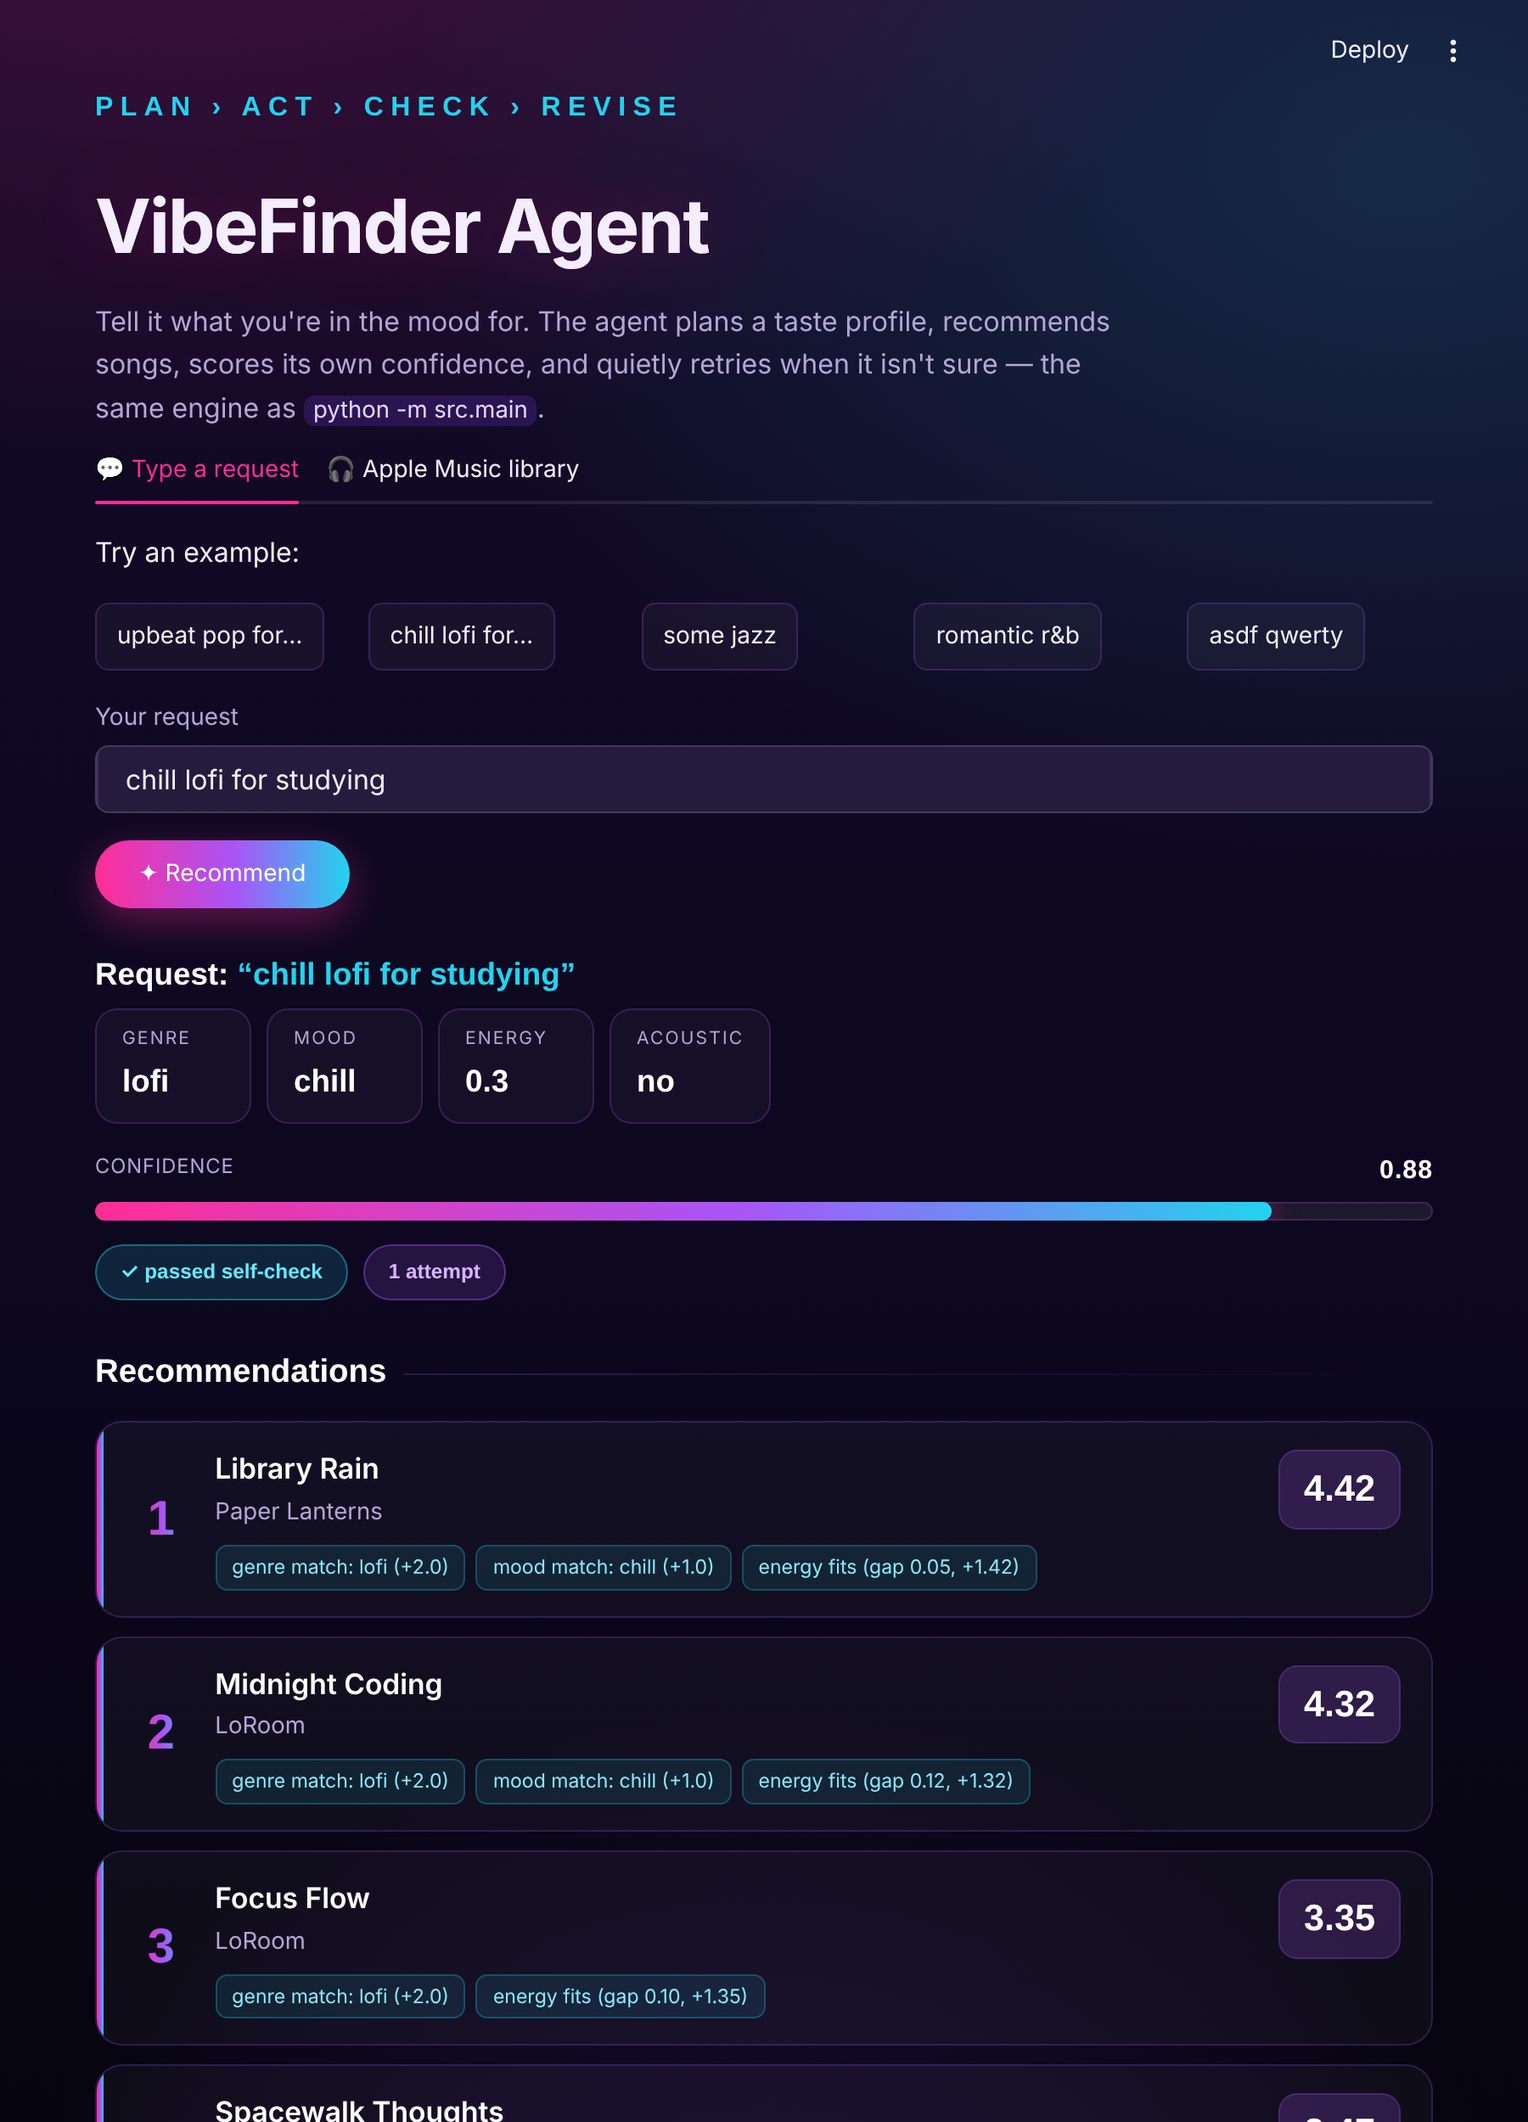
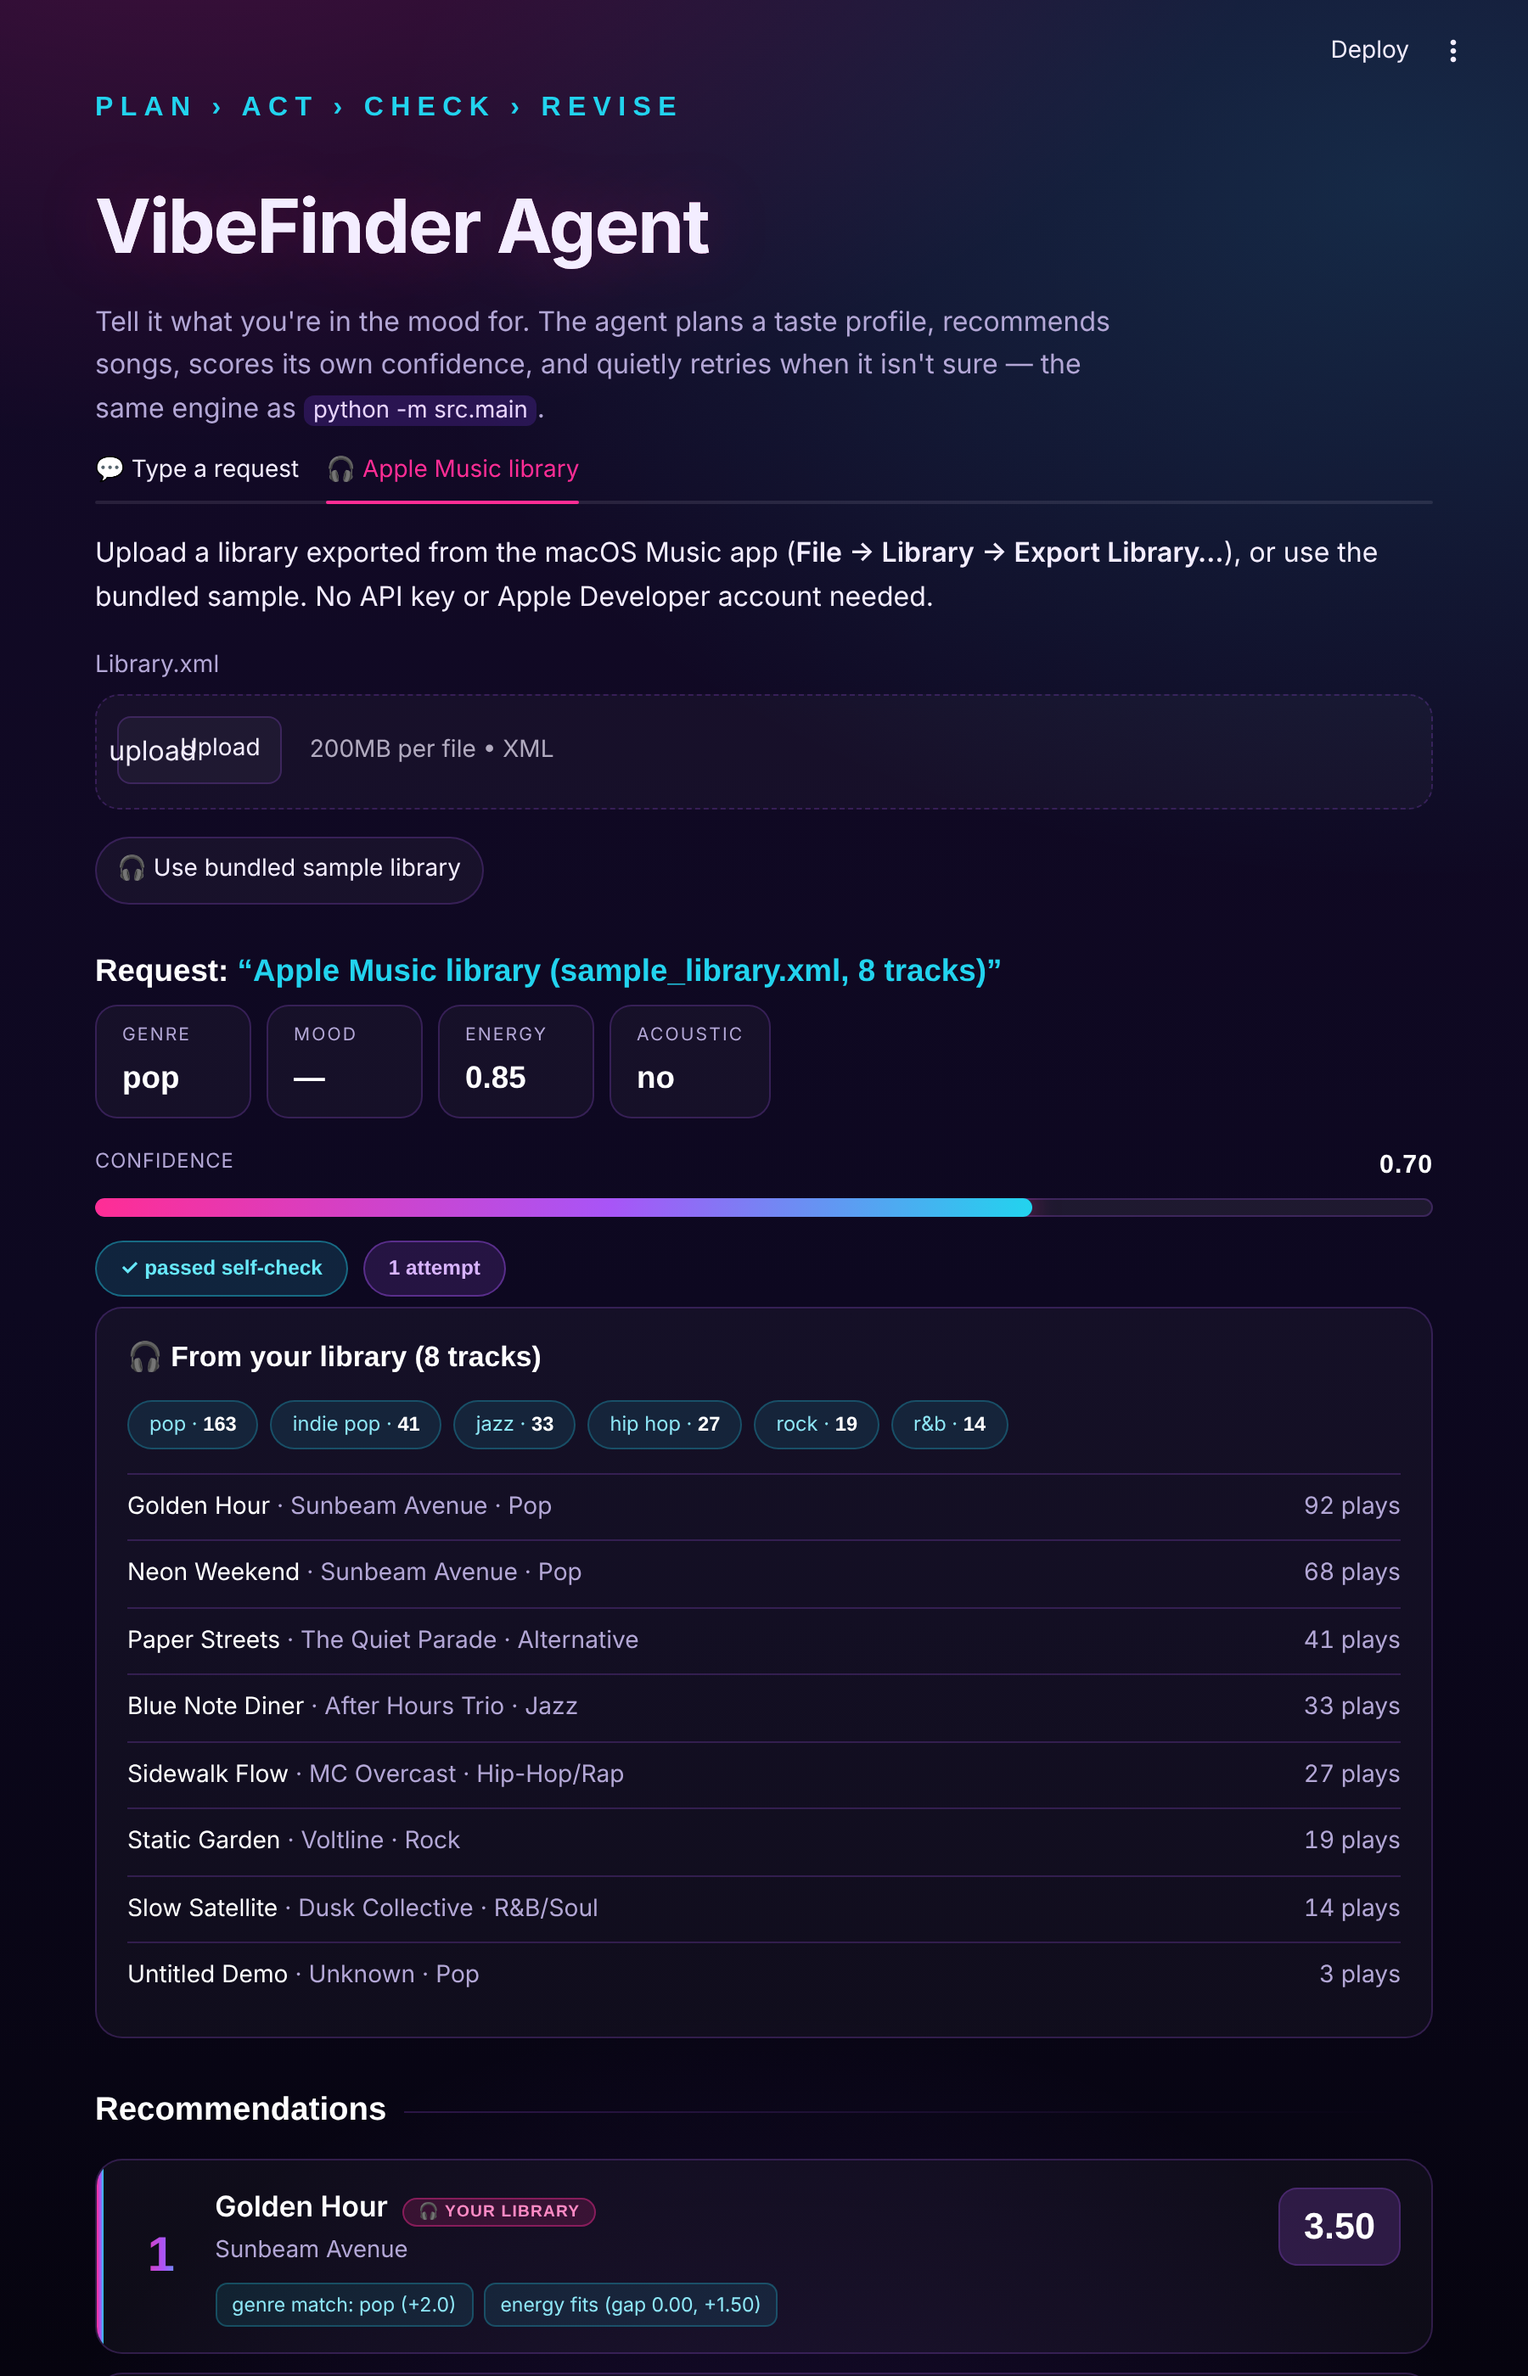
Apple Music: show parsed library and rank the user's own songs
Two improvements to the Apple Music path so results reflect the uploaded
library instead of only the fixed catalog:
- 'From your library' panel: shows the parsed tracks (with play counts)
  and a play-count genre breakdown, so you can see what was read.
- The user's own tracks are folded into the candidate pool and scored, so
  they appear in the recommendations tagged 'your library' vs 'suggested'.
  Uploaded tracks get an inferred energy (catalog average for their genre)
  since the export lacks audio features; documented in the model card.

Added library_candidate_songs/genre_breakdown helpers, threaded an
extra-candidates pool through the agent, and added 2 tests (26 total).

diff --git a/app.py b/app.py
@@ -150,6 +150,22 @@ button[data-baseweb="tab"][aria-selected="true"]{ color:#fff; }
 .vf-reasons{ display:flex; flex-wrap:wrap; gap:6px; }
 .vf-rchip{ font-size:.72rem; padding:3px 9px; border-radius:7px; background:rgba(34,211,238,.1); color:#8ee7f7; border:1px solid rgba(34,211,238,.25); white-space:nowrap; }
 
+/* source pills + library panel */
+.vf-src{ font-family:'Space Grotesk',sans-serif; font-size:.6rem; font-weight:600; text-transform:uppercase; letter-spacing:.06em;
+  padding:2px 8px; border-radius:999px; margin-left:9px; white-space:nowrap; }
+.vf-src.lib{ background:rgba(255,45,149,.16); color:#ff8ac4; border:1px solid rgba(255,45,149,.4); }
+.vf-src.sug{ background:rgba(168,85,247,.14); color:#c4b5fd; border:1px solid rgba(168,85,247,.35); }
+.vf-lib{ background:var(--card); border:1px solid var(--line); border-radius:16px; padding:16px 18px; margin:4px 0 2px; }
+.vf-libhead{ font-family:'Space Grotesk',sans-serif; font-weight:700; color:#fff; font-size:1.05rem; margin-bottom:11px; display:flex; align-items:center; gap:8px; }
+.vf-gbreak{ display:flex; flex-wrap:wrap; gap:7px; margin-bottom:14px; }
+.vf-gchip{ font-size:.74rem; padding:4px 12px; border-radius:999px; background:rgba(34,211,238,.1); border:1px solid rgba(34,211,238,.25); color:#8ee7f7; }
+.vf-gchip b{ color:#fff; font-family:'Space Grotesk',sans-serif; }
+.vf-track{ display:flex; justify-content:space-between; gap:12px; padding:8px 0; border-top:1px solid var(--line); font-size:.88rem; }
+.vf-track .tname{ color:#fff; min-width:0; overflow:hidden; text-overflow:ellipsis; }
+.vf-track .tname span{ color:var(--muted); }
+.vf-track .tplays{ color:var(--muted); white-space:nowrap; font-variant-numeric:tabular-nums; }
+.vf-more{ color:var(--muted); font-size:.8rem; margin-top:9px; }
+
 /* expander (trace) */
 [data-testid="stExpander"]{ border:1px solid var(--line)!important; border-radius:12px!important; background:var(--card)!important; }
 [data-testid="stExpander"] summary{ color:var(--muted)!important; font-family:'Space Grotesk',sans-serif; font-weight:600; }
@@ -196,17 +212,48 @@ def render_result(result) -> None:
         unsafe_allow_html=True,
     )
 
+    is_library = result.library_tracks is not None
+
+    # "From your library" panel (library mode only).
+    if is_library:
+        gb = "".join(
+            f'<span class="vf-gchip">{html.escape(g)} · <b>{plays}</b></span>'
+            for g, plays in (result.genre_breakdown or [])
+        )
+        tracks = sorted(result.library_tracks, key=lambda t: t.get("play_count", 0), reverse=True)
+        shown = tracks[:15]
+        rows = "".join(
+            f'<div class="vf-track"><div class="tname">{html.escape(t["title"])} '
+            f'<span>· {html.escape(t["artist"])} · {html.escape(t["genre"] or "—")}</span></div>'
+            f'<div class="tplays">{t.get("play_count", 0)} plays</div></div>'
+            for t in shown
+        )
+        more = (f'<div class="vf-more">+ {len(tracks) - len(shown)} more tracks</div>'
+                if len(tracks) > len(shown) else "")
+        st.markdown(
+            f'<div class="vf-lib"><div class="vf-libhead">🎧 From your library '
+            f'({len(result.library_tracks)} tracks)</div>'
+            f'<div class="vf-gbreak">{gb}</div>{rows}{more}</div>',
+            unsafe_allow_html=True,
+        )
+
     cards = ['<div class="vf-sechead">Recommendations</div>']
     for rank, (song, score, explanation) in enumerate(result.recommendations, start=1):
         reasons = "".join(
             f'<span class="vf-rchip">{html.escape(r.strip())}</span>'
             for r in explanation.split(";") if r.strip()
         )
+        if is_library:
+            pill = ('<span class="vf-src lib">🎧 your library</span>'
+                    if song.get("source") == "library"
+                    else '<span class="vf-src sug">suggested</span>')
+        else:
+            pill = ""
         cards.append(
             f'<div class="vf-song"><div class="vf-rank">{rank}</div>'
             f'<div class="vf-main">'
             f'<div class="vf-row">'
-            f'<div class="vf-names"><div class="vf-title2">{html.escape(song["title"])}</div>'
+            f'<div class="vf-names"><div class="vf-title2">{html.escape(song["title"])}{pill}</div>'
             f'<div class="vf-artist">{html.escape(song["artist"])}</div></div>'
             f'<div class="vf-score">{score:.2f}</div></div>'
             f'<div class="vf-reasons">{reasons}</div></div></div>'

diff --git a/src/agent.py b/src/agent.py
@@ -27,7 +27,11 @@ from src.recommender import load_songs, recommend_songs, UserProfile
 from src.planner import parse_request, Plan
 from src.evaluator import evaluate, EvalResult, CONFIDENCE_THRESHOLD
 from src.connectors.apple_music import parse_library
-from src.profile_builder import build_plan_from_library
+from src.profile_builder import (
+    build_plan_from_library,
+    library_candidate_songs,
+    genre_breakdown,
+)
 
 MAX_ATTEMPTS = 3
 DEFAULT_CSV = "data/songs.csv"
@@ -66,6 +70,8 @@ class AgentResult:
     attempts: int
     trace: List[str] = field(default_factory=list)
     advisory: Optional[str] = None
+    library_tracks: Optional[List[Dict]] = None    # parsed tracks (library mode only)
+    genre_breakdown: Optional[List] = None          # [(genre, plays)] (library mode only)
 
 
 class RecommenderAgent:
@@ -105,13 +111,20 @@ class RecommenderAgent:
         """
         tracks = parse_library(xml_path)
         plan: Plan = build_plan_from_library(tracks, self.songs, k)
+        # The user's own tracks become candidates too, so they can be ranked.
+        extra = library_candidate_songs(tracks, self.songs)
         label = f"Apple Music library ({os.path.basename(xml_path)}, {len(tracks)} tracks)"
-        return self._execute(plan, label=label)
+        result = self._execute(plan, label=label, extra_songs=extra)
+        result.library_tracks = tracks
+        result.genre_breakdown = genre_breakdown(tracks)
+        return result
 
-    def _execute(self, plan: Plan, label: str) -> AgentResult:
+    def _execute(self, plan: Plan, label: str, extra_songs=None) -> AgentResult:
         query = label
         k = plan.k
         profile = plan.profile
+        # Candidate pool: the catalog, plus any uploaded tracks (library mode).
+        candidates = self.songs + (extra_songs or [])
         self.log.info("PLAN   source=%r -> profile=%s", label, profile)
         for line in plan.trace:
             self.log.info("PLAN     %s", line)
@@ -133,7 +146,7 @@ class RecommenderAgent:
         while attempts < MAX_ATTEMPTS:
             attempts += 1
             prefs = _profile_to_prefs(profile)
-            recs = recommend_songs(prefs, self.songs, k)
+            recs = recommend_songs(prefs, candidates, k)
             result = evaluate(profile, recs, k, self.catalog_genres)
             self.log.info(
                 "ACT    attempt=%d top=%r score=%.2f conf=%.2f passed=%s issues=%s",

diff --git a/src/profile_builder.py b/src/profile_builder.py
@@ -46,6 +46,55 @@ def map_genre(apple_genre: str):
     return None
 
 
+def _genre_energy_means(songs: List[Dict]) -> Dict[str, float]:
+    """Average energy of catalog songs per genre (used to fill in uploads)."""
+    buckets: Dict[str, List[float]] = {}
+    for s in songs:
+        buckets.setdefault(s["genre"], []).append(s["energy"])
+    return {g: round(statistics.mean(v), 2) for g, v in buckets.items()}
+
+
+def genre_breakdown(tracks: List[Dict]) -> List:
+    """Return [(catalog_genre, total_plays)] for a library, most played first."""
+    tally: Dict[str, int] = {}
+    for t in tracks:
+        genre = map_genre(t.get("genre", ""))
+        if genre:
+            tally[genre] = tally.get(genre, 0) + max(0, int(t.get("play_count", 0)))
+    return sorted(tally.items(), key=lambda kv: kv[1], reverse=True)
+
+
+def library_candidate_songs(tracks: List[Dict], songs: List[Dict]) -> List[Dict]:
+    """Turn uploaded tracks into scoreable songs so they can be recommended.
+
+    The export has no energy/mood/acousticness, so we fill energy with the
+    catalog average for the track's genre (the best estimate we have),
+    leave mood blank, and set acousticness to 0. Each song is tagged
+    ``source="library"`` so the UI can mark it as one of the user's own.
+    """
+    means = _genre_energy_means(songs)
+    overall = round(statistics.mean([s["energy"] for s in songs]), 2) if songs else 0.6
+    candidates: List[Dict] = []
+    for i, t in enumerate(tracks):
+        genre = map_genre(t.get("genre", ""))
+        if not genre:
+            continue  # can't place an unknown genre in the scoring space
+        candidates.append({
+            "id": -(i + 1),
+            "title": t.get("title", "Unknown"),
+            "artist": t.get("artist", "Unknown"),
+            "genre": genre,
+            "mood": "",
+            "energy": means.get(genre, overall),
+            "valence": 0.0,
+            "danceability": 0.0,
+            "acousticness": 0.0,
+            "play_count": int(t.get("play_count", 0)),
+            "source": "library",
+        })
+    return candidates
+
+
 def build_plan_from_library(tracks: List[Dict], songs: List[Dict], k: int = 5) -> Plan:
     """Build a Plan (profile + trace) from parsed Apple Music tracks.
 

diff --git a/tests/test_apple_music.py b/tests/test_apple_music.py
@@ -1,6 +1,12 @@
 from src.connectors.apple_music import parse_library
-from src.profile_builder import map_genre, build_plan_from_library
+from src.profile_builder import (
+    map_genre,
+    build_plan_from_library,
+    library_candidate_songs,
+    genre_breakdown,
+)
 from src.recommender import load_songs
+from src.agent import RecommenderAgent
 
 SAMPLE = "data/sample_library.xml"
 
@@ -37,3 +43,26 @@ def test_empty_library_falls_back_gracefully():
     plan = build_plan_from_library([], songs)
     assert plan.recognized is False
     assert plan.profile.favorite_genre == ""
+
+
+def test_library_candidates_fill_missing_features():
+    songs = load_songs("data/songs.csv")
+    tracks = parse_library(SAMPLE)
+    candidates = library_candidate_songs(tracks, songs)
+    assert candidates, "expected scoreable candidates from the sample library"
+    for c in candidates:
+        assert c["source"] == "library"
+        assert c["mood"] == ""              # export has no mood
+        assert 0.0 <= c["energy"] <= 1.0    # energy inferred from catalog
+        assert "play_count" in c
+
+
+def test_recommendations_include_the_users_own_songs():
+    """After upload, the user's own tracks should appear in the results
+    (tagged source='library'), not only catalog songs."""
+    agent = RecommenderAgent()
+    result = agent.run_from_library(SAMPLE)
+    sources = [song.get("source") for song, _, _ in result.recommendations]
+    assert "library" in sources               # their songs are ranked in
+    assert result.library_tracks is not None   # parsed library is attached
+    assert result.genre_breakdown              # and the genre breakdown too

diff --git a/README.md b/README.md
@@ -37,7 +37,10 @@ plan and re-ranks).
 the agent at a library exported from the macOS Music app
 (`--library Library.xml`). It reads your real listening history — weighting
 genres by play count — and builds your taste profile automatically, then
-runs the same self-checking loop. It uses the Music app's **Export Library**
+runs the same self-checking loop. The web app shows the tracks it parsed
+(with play counts and a genre breakdown) and folds your own songs into the
+ranking, tagged **🎧 your library** vs **suggested**, so you can see both
+your music and new picks. It uses the Music app's **Export Library**
 XML parsed with the standard-library `plistlib`, so there is **no API key,
 no paid Apple Developer account, and nothing leaves your machine** (the
 live MusicKit API needs a $99/yr token; Spotify removed the audio-feature

diff --git a/model_card.md b/model_card.md
@@ -91,7 +91,10 @@ or two songs, so the catalog is not a balanced sample of musical taste.
   genre and play count, not mood or energy, so a library-built profile
   leans on genre and an inferred energy; mood is left unspecified. Genre
   labels are mapped through a fixed table, so an unusual label (e.g. a niche
-  sub-genre) falls through and is ignored.
+  sub-genre) falls through and is ignored. When the user's own tracks are
+  folded into the ranking, they are scored with an inferred energy (the
+  catalog average for their genre) and no mood/acoustic signal, so that
+  ranking is a genre-and-energy approximation, not a full-feature match.
 
 ---
 
